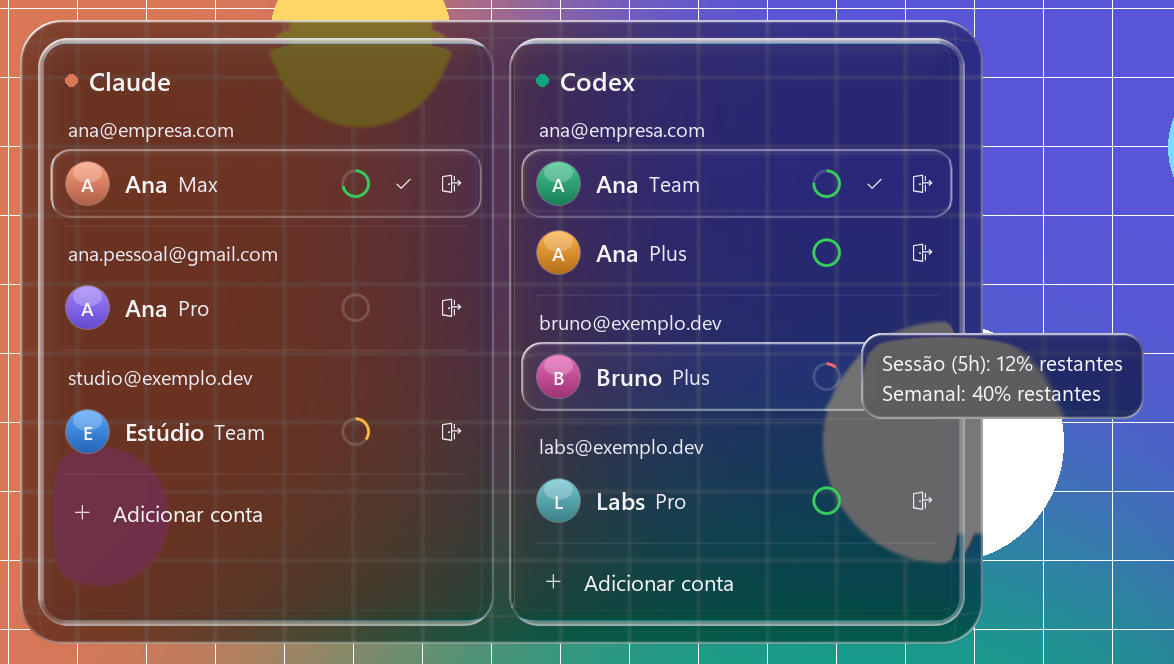
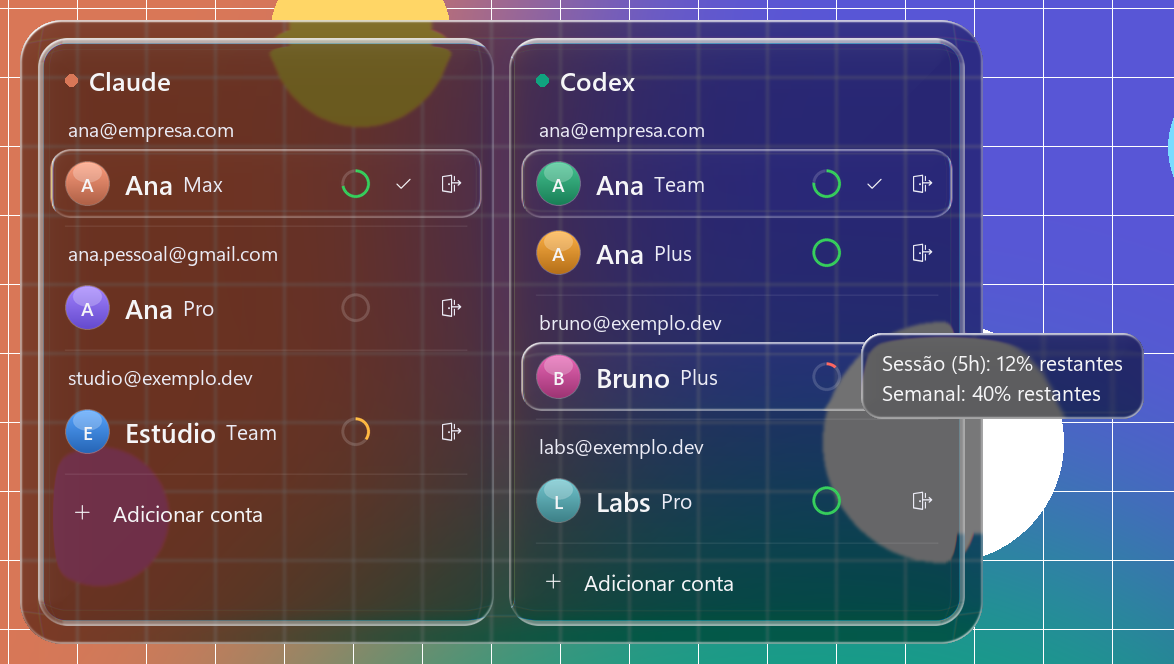
Larger account name

diff --git a/src/glass.py b/src/glass.py
@@ -322,7 +322,7 @@ def render(bg, items, L, state):
             a = L.u(30)
             img.alpha_composite(_avatar(a, acc["color"], state["initials"](acc), s),
                                 (box[0] + L.u(10), int(cy - a / 2)))
-            fn, fp = font(int(13.5 * s), "semibold"), font(int(12 * s))
+            fn, fp = font(int(15.5 * s), "semibold"), font(int(12 * s))
             tx = box[0] + L.u(50)
             avail = box[2] - L.u(84) - L.u(16) - tx          # stop before the usage ring
             gap = L.u(7)
